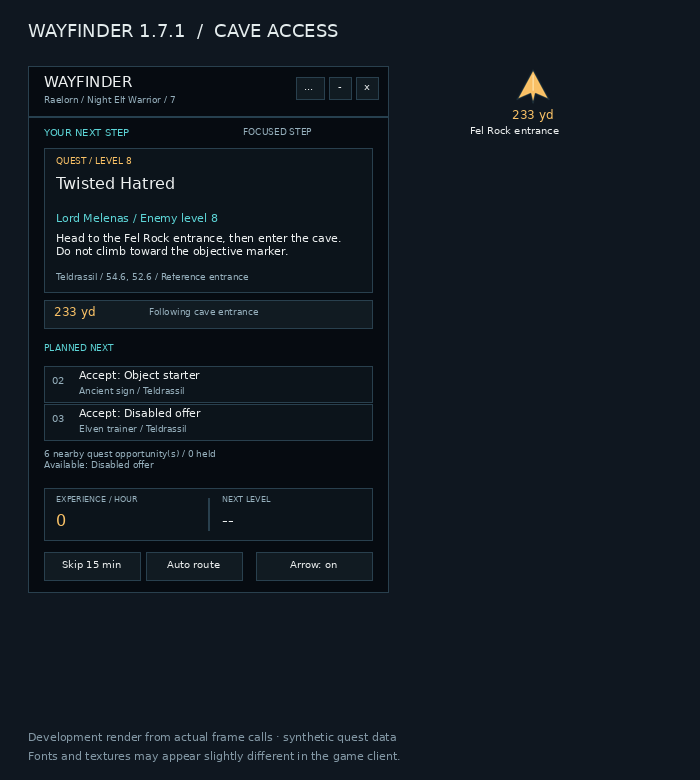
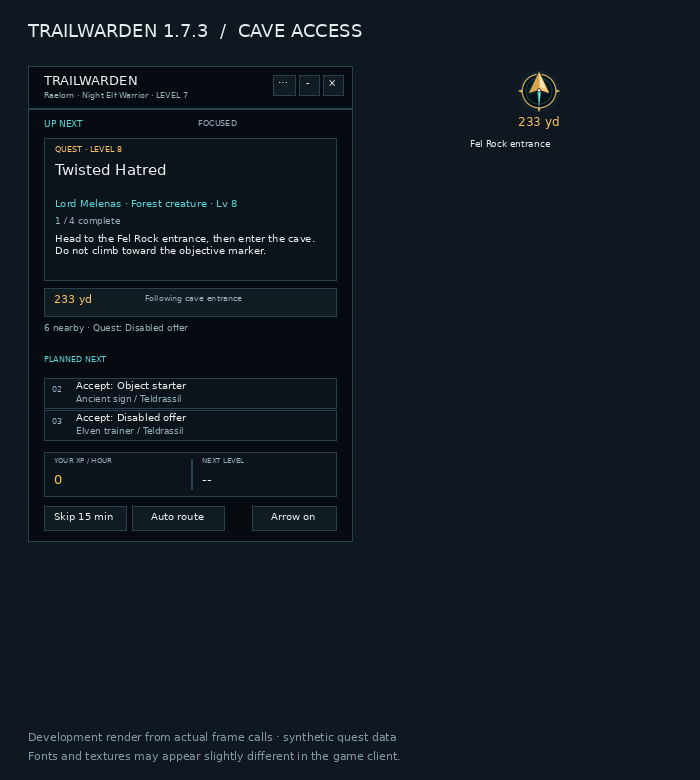
Fix bounded quest projections and finish 1.7.3 UI hardening
Refresh forecasts on objective progress, prevent stale navigation, and size the panel to actual content. Add projection and UI regressions, verification CI, and updated validation previews.

diff --git a/tools/check.py b/tools/check.py
@@ -16,6 +16,6 @@ commands=[
  ['tools/replay.py','tests/safety-replay.json'],
 ]
 for command in commands:
-    subprocess.run([sys.executable,*command],cwd=root,check=True)
+    subprocess.run([sys.executable,*command],cwd=root,check=True,timeout=90)
 print('All scenario, engine, provider-contract and replay suites passed')
 

diff --git a/docs/validation.md b/docs/validation.md
@@ -1,3 +1,15 @@
+# Validation for 1.7.3 (feature branch)
+
+**440 checks and 40 replay frames** pass locally under both Lua 5.1.5 and the Lua 5.4 development fallback: 202 scenario/client, 70 pure engine, 21 provider/client, 74 XP, 36 combat safety and 37 access/map checks.
+
+The previous branch's experience suite timed out on its first nonempty objective cycle. The corrected projection consumes a shrinking pending list and orders goals separately. Tests cover a route where the greedy ordering is 160 yards and the improved ordering is 140 yards, origin/pickup/return legs, once-only work/kill accounting, unchanged inputs, empty/coincident goals, malformed/sparse data, overflow, and bounded execution at the 64-goal limit. Forecasts above that limit remain unknown and retain normal quest-routing behavior. Two-opt has at most eight improving passes; these are direct-distance estimates, not terrain paths or a global optimum.
+
+Additional client scenarios verify progress invalidates stale forecast quantities while unchanged data still uses the cache; collapse hides all body content; preview height follows actual rows; warnings, preview and XP do not overlap; nearby offers preserve data/combat warnings; long titles stay at least 11px and fit two lines; tooltip gaps do not discard later instructions; measured rate/ETA appear at five active minutes; and an out-of-date navigation decision cannot show an old bearing or arrival state.
+
+Feature pushes and PRs now run the Lua 5.1 suite plus package validation through a read-only verification workflow. Each suite times out after 90 seconds and the CI job after five minutes. The release workflow remains separate. Local package validation checks the installable archive; repeat builds must be byte-identical. Updated `docs/previews/` renders use the actual frame calls with synthetic data and a substitute font. They support layout inspection and do not establish live WoW behavior.
+
+Live Forever testing is still required for real fonts, readability at the chosen UI scale, actual cave/escort behavior and provider coverage. The feature branch is not a published release.
+
 # Validation for 1.7.1
 
 **409 checks and 40 replay frames** pass: 189 scenario/client, 70 pure engine, 21 provider/client, 56 XP, 36 combat safety and 37 access/map checks. Three new replay frames cover cave collection, last-item persistence and release after local completion.

diff --git a/README.md b/README.md
@@ -112,6 +112,6 @@ The automated scenarios use synthetic client data modeled on the two character c
 
 ## Development and releases
 
-Lua files live in `Trailwarden/`; the TOC defines load order. `python3 tools/check.py` runs scenarios, pure-engine checks, provider/client contracts, XP accounting/projection checks and replay verification. `python3 tools/package.py` builds a reproducible installable ZIP. On `main`, GitHub Actions runs all checks under Lua 5.1 and publishes a release for a new TOC version.
+Lua files live in `Trailwarden/`; the TOC defines load order. `python3 tools/check.py` runs scenarios, pure-engine checks, provider/client contracts, XP accounting/projection checks and replay verification, with a 90-second timeout per suite. `python3 tools/package.py` builds a reproducible installable ZIP. GitHub Actions verifies feature-branch pushes and pull requests under Lua 5.1 with read-only repository permissions. On `main`, the separate release workflow runs the checks and publishes a release for a new TOC version.
 
 MIT license for Trailwarden's code and original arrow asset. Questie and QuestieDB are separate dependencies; no database or paid guide content is bundled.

diff --git a/Trailwarden/README.md b/Trailwarden/README.md
@@ -110,6 +110,6 @@ The automated scenarios use synthetic client data modeled on the two character c
 
 ## Development and releases
 
-Lua files live in `Trailwarden/`; the TOC defines load order. `python3 tools/check.py` runs scenarios, pure-engine checks, provider/client contracts, XP accounting/projection checks and replay verification. `python3 tools/package.py` builds a reproducible installable ZIP. On `main`, GitHub Actions runs all checks under Lua 5.1 and publishes a release for a new TOC version.
+Lua files live in `Trailwarden/`; the TOC defines load order. `python3 tools/check.py` runs scenarios, pure-engine checks, provider/client contracts, XP accounting/projection checks and replay verification, with a 90-second timeout per suite. `python3 tools/package.py` builds a reproducible installable ZIP. GitHub Actions verifies feature-branch pushes and pull requests under Lua 5.1 with read-only repository permissions. On `main`, the separate release workflow runs the checks and publishes a release for a new TOC version.
 
 MIT license for Trailwarden's code and original arrow asset. Questie and QuestieDB are separate dependencies; no database or paid guide content is bundled.

diff --git a/docs/release-notes-1.7.3.md b/docs/release-notes-1.7.3.md
@@ -7,6 +7,9 @@ This update polishes the route display and makes modeled quest cycles less prone
 - Live XP/hour and next-level time appear after five active minutes, so a brief sample does not dominate the display.
 - Quest-cycle estimates improve the initial nearest-target order with a two-opt pass, and reject invalid negative work values instead of letting them distort the estimate.
 - Existing local-work, current-region, cave/interior and escort priorities remain in place.
+- Correct the multi-goal forecast loop, cap optimization work and refresh modeled quantities as quest objectives progress.
+- Fit the panel to the actual preview length; collapse hides all body content. Data/combat warnings remain visible alongside nearby quest offers.
+- Prevent the navigator from showing an earlier decision's arrow or arrival state while a new route is synchronizing.
 
 The arrow is still directional guidance. It does not calculate a verified path around terrain.
 

diff --git a/Trailwarden/CHANGELOG.md b/Trailwarden/CHANGELOG.md
@@ -2,6 +2,9 @@
 
 ## 1.7.3
 
+- Fix non-terminating multi-goal forecasts, bound route optimization and reject malformed/non-finite projection data.
+- Invalidate forecast models immediately when objective progress changes; never show an old navigator bearing for a new decision.
+- Size the panel to the actual preview, hide the entire body when collapsed, retain warnings alongside nearby offers, and keep long titles readable.
 - Rework the route panel into a narrower, shorter hierarchy with clearer objective progress and less diagnostic clutter.
 - Replace the navigator pointer with a compact compass needle and improve its spacing and labels.
 - Wait for five active minutes before showing the live XP rate and next-level ETA, avoiding misleading short-session projections.
